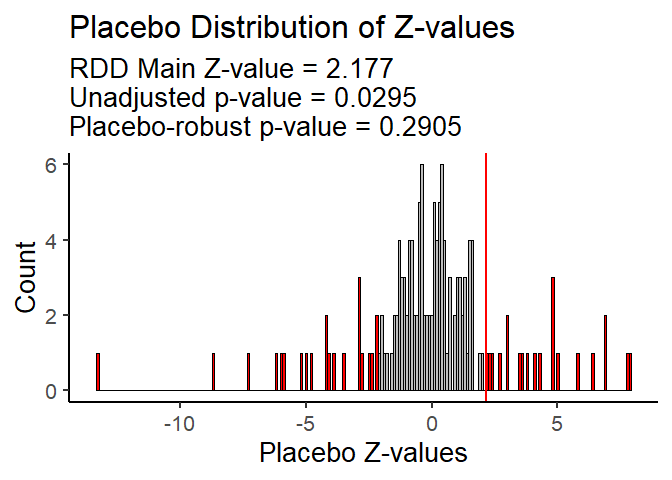
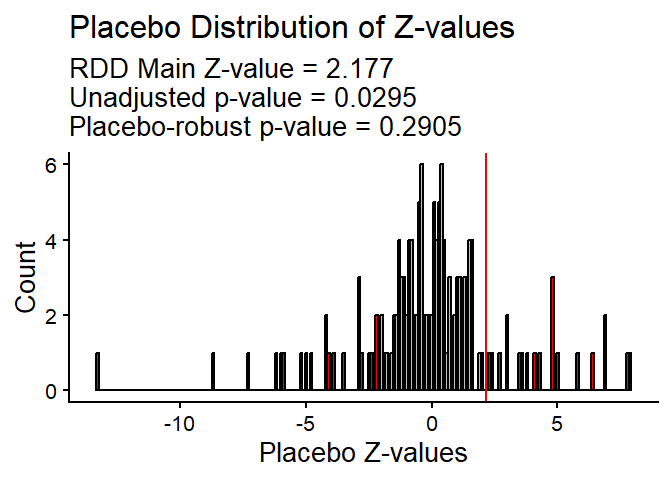
update readme

diff --git a/README.md b/README.md
@@ -4,6 +4,7 @@
 # uesdRobust
 
 <!-- badges: start -->
+
 <!-- badges: end -->
 
 The uesdRobust R package accompanies the paper “Type I Error Inflation
@@ -245,23 +246,30 @@ rdd_res <- uesd_robust_rdd(
 #> rho (h/b)                     0.462        0.462
 #> Unique Obs.                     150          101
 #> 
-#> =============================================================================
-#>         Method     Coef. Std. Err.         z     P>|z|      [ 95% C.I. ]       
-#> =============================================================================
-#>   Conventional     0.669     0.307     2.177     0.030     [0.067 , 1.271]     
-#>         Robust         -         -     1.456     0.145    [-0.171 , 1.157]     
-#> =============================================================================
+#> =====================================================================
+#>                    Point    Robust Inference
+#>                 Estimate         z     P>|z|      [ 95% C.I. ]       
+#> ---------------------------------------------------------------------
+#>      RD Effect     0.669     1.456     0.145    [-0.171 , 1.157]     
+#> =====================================================================
 #> 
 #> Using [conventional] row for placebos: estimate=0.6690  se=0.3074  z=2.1766  p=0.0295
 #> 
 #> Unadjusted 95% CI for ITT: [0.0666, 1.2715]
 #> 
 #> Placebo‐robust p-value: 0.2905
-#> Placebo‐robust 95% CI:     [-1.6124, 2.9505]
+#> Placebo‐robust 95% CI:     [-1.2713, 2.6094]
 
 
 # plot of the placebo distribution of z‐values with the uesd_placebo_plot function:
 uesd_placebo_plot(rdd_res)
+#> Warning: Using `size` aesthetic for lines was deprecated in ggplot2 3.4.0.
+#> ℹ Please use `linewidth` instead.
+#> ℹ The deprecated feature was likely used in the uesdRobust package.
+#>   Please report the issue at <https://github.com/fresej/uesdRobust/issues>.
+#> This warning is displayed once every 8 hours.
+#> Call `lifecycle::last_lifecycle_warnings()` to see where this warning was
+#> generated.
 ```
 
 <img src="man/figures/README-unnamed-chunk-2-1.png" width="100%" />
